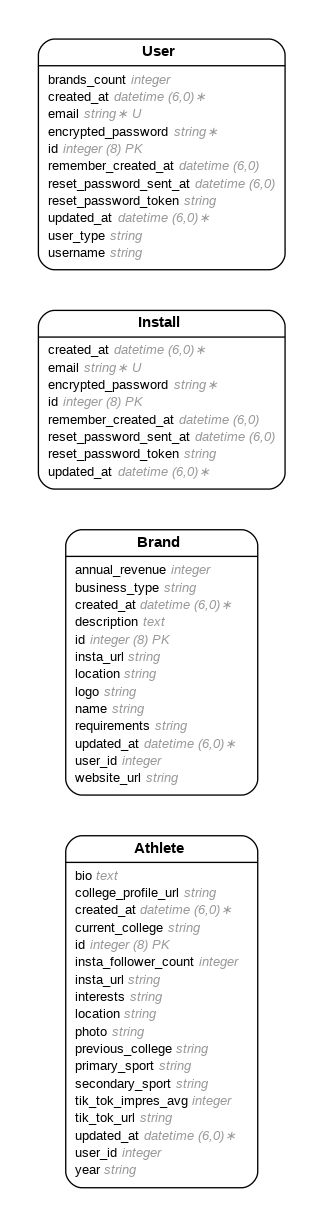
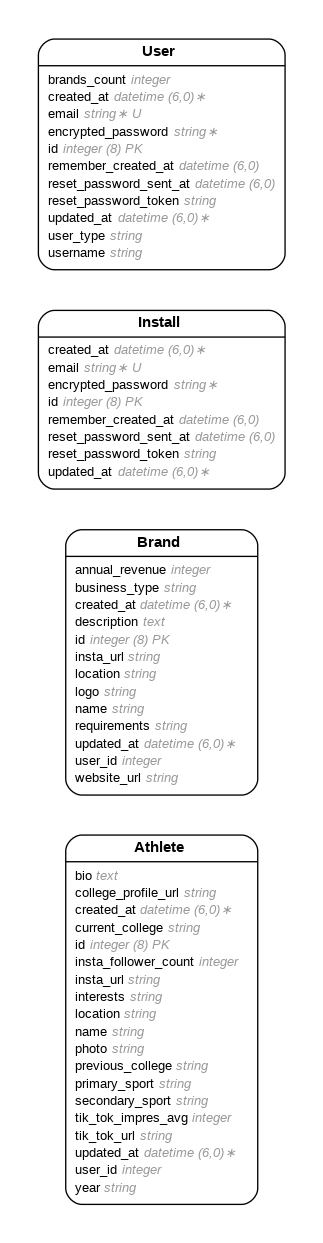
Addition of Athlete Name Column to Application and Athlete Show Page Clean Up

Changed region(s): [[0.1238, 0.031, 0.8978, 0.991], [0.8669, 0.1858, 0.8978, 0.2168]]

diff --git a/app/controllers/athletes_controller.rb b/app/controllers/athletes_controller.rb
@@ -19,6 +19,7 @@ class AthletesController < ApplicationController
 
   def create
     the_athlete = Athlete.new
+    the_athlete.name = params.fetch("query_name")
     the_athlete.primary_sport = params.fetch("query_primary_sport")
     the_athlete.secondary_sport = params.fetch("query_secondary_sport")
     the_athlete.current_college = params.fetch("query_current_college")
@@ -47,6 +48,7 @@ class AthletesController < ApplicationController
     the_id = params.fetch("path_id")
     the_athlete = Athlete.where({ :id => the_id }).at(0)
 
+    the_athlete.athlete_name = params.fetch("query_name")
     the_athlete.primary_sport = params.fetch("query_primary_sport")
     the_athlete.secondary_sport = params.fetch("query_secondary_sport")
     the_athlete.current_college = params.fetch("query_current_college")

diff --git a/db/schema.rb b/db/schema.rb
@@ -10,7 +10,7 @@
 #
 # It's strongly recommended that you check this file into your version control system.
 
-ActiveRecord::Schema[7.1].define(version: 2025_05_29_165910) do
+ActiveRecord::Schema[7.1].define(version: 2025_05_29_184747) do
   # These are extensions that must be enabled in order to support this database
   enable_extension "plpgsql"
 
@@ -32,6 +32,7 @@ ActiveRecord::Schema[7.1].define(version: 2025_05_29_165910) do
     t.integer "user_id"
     t.datetime "created_at", null: false
     t.datetime "updated_at", null: false
+    t.string "name"
   end
 
   create_table "brands", force: :cascade do |t|

diff --git a/app/models/athlete.rb b/app/models/athlete.rb
@@ -10,6 +10,7 @@
 #  insta_url            :string
 #  interests            :string
 #  location             :string
+#  name                 :string
 #  photo                :string
 #  previous_college     :string
 #  primary_sport        :string

diff --git a/db/migrate/20250529184747_add_name_to_athletes.rb b/db/migrate/20250529184747_add_name_to_athletes.rb
@@ -1,0 +1,5 @@
+class AddNameToAthletes < ActiveRecord::Migration[7.1]
+  def change
+    add_column :athletes, :name, :string
+  end
+end
